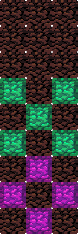
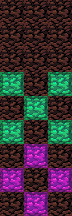
Add files via upload

diff --git a/animation.js b/animation.js
@@ -41,7 +41,7 @@ const buttonTog = (e) => {
 // todo : CLOTHING CHANGER
 // todo : ================
 
-let clothingDefault = 0, clothingTypes = 14, clothingColumns = 7; //default clothing variables.
+let clothingCurrent = 0, clothingTypes = 14, clothingColumns = 7; //default clothing variables.
 
 document.addEventListener('DOMContentLoaded', () => { //this just sets the boxes back to default settings
     const clothing = $('#clothing'), clothingDebug = $('#clothingDebug');
@@ -59,12 +59,13 @@ document.addEventListener('DOMContentLoaded', () => { //this just sets the boxes
 
             divS.children[i].onclick = function () {   // attach event listener individually
                 $all('#clothing e').forEach(id => {id.classList.remove("inv")}); //removes all buttons from being enabled on mouse press
+                clothingCurrent = cur
                 buttonTog(this); verticalUpdate(cur);
                 clothingDebug.textContent = cur + 1;
             }}} //presses the button that was just pressed.
 
-    $("#clothing"+clothingDefault).classList.add('inv') //enables the button that is the default clothing option
-    clothingDebug.textContent = clothingDefault + 1;
+    $("#clothing"+clothingCurrent).classList.add('inv') //enables the button that is the default clothing option
+    clothingDebug.textContent = clothingCurrent + 1;
 }, false);
 
 // todo : ==================
@@ -85,44 +86,73 @@ const frameTypeToggle = () => { //this is to push the current frame times
         amplifiedMulti = amplifiedBool ? 1 : 0;
         animationUpdate()};
 
+// todo : ==================
+// todo : CHARACTER SETTINGS
+// todo : ==================
+
+const dir = "characters/" //directory where all the character files are saved.
 const characterFrames = [
-        //Name          WID/HIG/ROW/COL
-    [   ["Cadence",     24, 24, 14, 16],
-        ["Melody",      24, 24, 14, 16],
-        ["Aria",        24, 24, 14, 16],
-        ["Dorian",      32, 32, 1 , 9 ],
-        ["Eli",         32, 28, 14, 16],
-        ["Monk",        24, 24, 14, 16],
-        ["Dove",        24, 24, 14, 16],
-        ["Coda",        33, 30, 14, 16],
-        ["Bolt",        24, 24, 14, 16],
-    ],[ ["Nocturna",    25, 27, 15, 15],
-        ["Diamond",     24, 24, 14, 16],
-        ["Mary",        24, 24, 14, 16],
-        ["Tempo",       24, 24, 14, 16]
-    ],[ ["Suzu",        25, 28, 14, 16],
-        ["Chaunter",    27, 26, 14, 16],
-        ["Klarinetta",  26, 30, 1 , 32]]]
+        //Name          WID/HIG/ROW/COL/URL
+    [   ["Base Game"],
+        ["Cadence P1",  24, 24, 14, 16, "player1"],
+        ["Melody",      24, 24, 14, 16, "char1"],
+        ["Aria",        24, 24, 14, 16, "char2"],
+        ["Dorian",      33, 32, 1 , 16, "char3"],
+        ["Eli",         32, 28, 14, 16, "char4"],
+        ["Monk",        24, 24, 14, 16, "char5"],
+        ["Dove",        24, 24, 14, 16, "char6"],
+        ["Coda",        33, 30, 14, 16, "char7"],
+        ["Bolt",        24, 24, 14, 16, "char8"],
+        ["Bard",        24, 24, 14, 16, "char9"]
+    ],[ ["Amplified"],
+        ["Nocturna",    25, 27, 15, 16, "char10"],
+        ["Diamond",     24, 24, 14, 16, "char11"],
+        ["Mary",        24, 24, 14, 16, "char12"],
+        ["Tempo",       24, 24, 14, 16, "char13"]
+    ],[ ["Synchrony"],
+        ["Suzu",        25, 28, 14, 16, "Suzu"],
+        ["Chaunter",    27, 26, 14, 16, "Chaunter"],
+        ["Klarinetta",  26, 30, 1 , 32, "Klarinetta"]]]
 let currentCharacter = "Nocturna"; //default character to select on load.
 
+// todo : CHARACTER LOADING
+
 document.addEventListener('DOMContentLoaded', () => { //function mounting on page load
-    for (let e = 0; e < characterFrames.length; e++) {
-        for(let i = 0; i < characterFrames[e].length; i++) {
+    const parent = $('#characterSelect')
+    for (let e = 0; e < characterFrames.length; e++) { //loops through DLC array types
+
+        parent.appendChild(createButton("options"))
+        let child = parent.getElementsByTagName('options')[e]
+
+        for(let i = 0; i < (characterFrames[e].length) - 1; i++) {
             //this gets the placement of the character in the default array if a name is typed.
             currentCharacter = currentCharacter.indexOf(characterFrames[e][i][0]) != -1 ? [e,i] : currentCharacter
 
-            $('#characterSelect' + (e + 1)).appendChild(createButton('e',characterFrames[e][i][0])).onclick = function () {
-                currentCharacter = [e,i]; animationFrameSize()
+            child.appendChild(createButton('e',characterFrames[e][i + 1][0])).onclick = function () {
+                currentCharacter = [e,i + 1]; animationFrameSize()
                 $all('container.tb3 options e').forEach(id => {id.classList.remove("inv")})
                 buttonTog(this)}}}
 
-    $('#characterSelect' + (currentCharacter[0]+1)).children[currentCharacter[1]].classList.add("inv")})
+    animationFrameSize()
+    parent.getElementsByTagName('options')[currentCharacter[0]].children[currentCharacter[1] - 1].classList.add("inv")})
 
 const animationFrameSize = () =>  {
-        frameWidth = characterFrames[currentCharacter[0]][currentCharacter[1]][1]
-        frameHeight = characterFrames[currentCharacter[0]][currentCharacter[1]][2]
-        $("#characterDebug").textContent = currentCharacter[0]+""+currentCharacter[1]+":"+
-                           characterFrames[currentCharacter[0]][currentCharacter[1]][0]}
+    let char = characterFrames[currentCharacter[0]]
+    frameWidth = char[currentCharacter[1]][1]
+    frameHeight = char[currentCharacter[1]][2]
+    $("#characterDebug").textContent =
+        currentCharacter[0]+""+currentCharacter[1]+":"+ char[currentCharacter[1]][0]
+
+    let src = "/" + dir + char[currentCharacter[1]][5]
+    $('#head').src = src + (currentCharacter[0] !== 2 ? "_heads.png" : "_head.png")
+    $('#body').src = src + (currentCharacter[0] !== 2 ? "_armor_body.png" : "_body.png")
+
+    $doc.style.setProperty('--imageW',frameWidth+"px")
+    $doc.style.setProperty('--imageH',frameHeight+"px")
+    $doc.style.setProperty('--rows',char[currentCharacter[1]][3])
+    $doc.style.setProperty('--columns',char[currentCharacter[1]][4])
+
+    $('#body').style.marginTop = -((frameHeight * clothingCurrent) * scaleRes) + "px"}
 
 // todo : ==================
 // todo : ANIMATION Rendering
@@ -181,12 +211,12 @@ const songList = [
     ["1-1 // Disco Descent"], //115
     ["BOSS // Deep Blues", "BOSS // King Conga", "BOSS // Golden Lute", "TRAINING // Watch Your Step"], //120
     ["BOSS // Coral Riff"], //125
-    ["LOBBY // Rhythmortis","1-2 // Crypteque","2-1 // Fungal Funk","4-1 // Styx and Stones"], //130
+    ["LOBBY // Rhythmortis","1-2 // Crypteque","2-1 // Fungal Funk","4-1 // Styx and Stones", "5-1 // Voltzwaltz"], //130
     ["3-1 // Stone Cold (cold)"," 3-1 // Igneous Rock (hot)"], //135
-    ["1-3 // Mausoleum Mash","2-2 // Grave Throbbing","BOSS // Necrodancer Phase 1","BOSS // Dead Ringer"], //140
+    ["1-3 // Mausoleum Mash","2-2 // Grave Throbbing","BOSS // Necrodancer Phase 1","BOSS // Dead Ringer","5-2 // Power Cords"], //140
     ["3-2 // Dance of the Decorous (cold)","3-2 March of the Profane (hot)","4-2 // Heart of the Crypt"], //145
     ["2-3 // Portabellohead"], //150
-    ["3-3 // A Cold sweat (cold)","3-3 // A Hot Mess (hot)"], //155
+    ["3-3 // A Cold sweat (cold)","3-3 // A Hot Mess (hot)","5-3 // Six Feet Thunder"], //155
     ["4-3 // The Wight To Remain","BOSS // Necrodancer Phase 2"], //160
     ["N/a"], //165
     ["N/a"], //170
@@ -216,15 +246,15 @@ const songList = [
 
 let danceTog = false, floorBool = false;
 
-    floorTog = () => {
+const floorTog = () => {
         floorBool = !floorBool;
         $('#DanceDebug').textContent = (danceTog ? (floorBool ? 2 : 1) : 0);
-        $("#crop").style.backgroundPositionY =
-            -((danceTog ? (floorBool ? 2 : 1) : 0) * (scaleRes * (frameHeight * 2))) + 'px'},
+        $("#floor").style.top =
+            -((danceTog ? (floorBool ? 2 : 1) : 0) * 72 * 10) - 30 +'px'},
 
     floorTileSets = [
-    [["Zone1"], ["zone2"], ["zone3_1","zone3_2"]],
-    [["zone4"], ["Zone5"], ["boss_1","boss_2"]]];
+        [["Zone1"], ["zone2"], ["zone3_1","zone3_2"]],
+        [["zone4"], ["Zone5"], ["boss_1","boss_2"]]];
 
 document.addEventListener('DOMContentLoaded', () => { //this just sets the boxes back to default settings
 
@@ -240,11 +270,11 @@ document.addEventListener('DOMContentLoaded', () => { //this just sets the boxes
             backgroundUpdate(buttonElem,e,i); //assigns background image for the button
 
             $('#backgrounds').children[e].appendChild(buttonElem).onclick = function () {   // attach event listener individually
-                if (floorTileSets[e][i].length > 1 && this.style.backgroundImage === $('#crop').style.backgroundImage){
+                if (floorTileSets[e][i].length > 1 && this.style.backgroundImage === $('#floor').style.backgroundImage){
                     floorTileSets[e][i].unshift(floorTileSets[e][i].pop()) //rotates the array clockwise.
                     backgroundUpdate(this,e,i)}
 
-                $('#crop').style.backgroundImage = this.style.backgroundImage; //updates the render image.
+                $('#floor').style.backgroundImage = this.style.backgroundImage; //updates the render image.
                 this.children[0].textContent = $('#FloorDebug').textContent = floorTileSets[e][i][[0]]; //updates the text on the image when clicked on
 
                 $all('#backgrounds e').forEach(id => {id.classList.remove("inv")}); //removes all buttons from being enabled on mouse press
@@ -253,7 +283,7 @@ document.addEventListener('DOMContentLoaded', () => { //this just sets the boxes
     // ON LAUNCH DEBUG PUSH
     const d = 3; //Default Floor Type
     let c=d-1,v=c>2?1:0,h=c>2?c-(floorTileSets[0].length*(floorTileSets.length*1)):c //figures out which array to use for said floor
-    backgroundUpdate($('#crop'),v,h)
+    backgroundUpdate($('#floor'),v,h)
     $('#backgrounds')?.children[v]?.children[h]?.classList.add("inv")
     $('#FloorDebug').textContent = floorTileSets[v][h][[0]]
     $('#DanceDebug').textContent = (danceTog ? (floorBool ? 2 : 1) : 0);

diff --git a/styling.css b/styling.css
@@ -3,15 +3,15 @@
 :root{
     --scaler : 14; --size: 24;
     --frameDef: 1;
-    --imageW: 25px; --imageH: 27px; --coloumns:16; --rows:15;
+    --imageW: 24px; --imageH: 24px; --columns:16; --rows:15;
 
 /* TODO: WINDOW SIZE SETTINGS */
 
-    --window1Height: 645px; --window2Height: 645px; --window3Height: 465px;
-    --window1Width: 336px; --window2Width: 282px; --window3Width: 218px}
+    --window1Height: 660px; --window2Height: 660px; --window3Height: 465px;
+    --window1Width: 450px; --window2Width: 282px; --window3Width: 218px}
 
 #head, #body{
-    position:absolute; width:calc((var(--imageW) * var(--coloumns)) * var(--scaler))}
+    position:absolute; width:calc((var(--imageW) * var(--columns)) * var(--scaler))}
 #body{
     height:calc((var(--imageH) * var(--rows)) * var(--scaler))}
 #weapon, #charm{
@@ -19,10 +19,13 @@
     top:0; left:0; z-index:1000;
     position:absolute; width:calc(25% * var(--scaler))}
 #charm {top:calc(1px * var(--scaler))}
-#HeadContainer {
-    height: calc(16px * var(--scaler));
-    float: left; width: 100%;
-    position:absolute; overflow:hidden;}
+
+#headContainer, #bodyContainer {
+    top: calc((var(--window1Width) - (var(--imageH) * 14)) - 20px);
+    left: calc(((var(--window1Width) / 2)) - ((var(--imageW) * var(--scaler)) / 2));
+    height: calc(var(--imageH) * var(--scaler));
+    width: calc(var(--imageW) * var(--scaler));
+    float: left; position:absolute; overflow:hidden}
 
 body {
     background-color: black; color:white;
@@ -31,22 +34,21 @@ body {
 
 /* TODO: RENDER CSS & SCALING */
 
-render {
-    position:absolute!important; overflow: hidden;
-    width: calc(var(--window1Width) + (var(--imageW) * 2));
-    height: calc(var(--window1Width) - (var(--imageH) * (12 - var(--scaler))));
-    image-rendering: -moz-crisp-edges; image-rendering: pixelated}
+render {position:absolute!important; overflow: hidden}
 
 #crop { position: relative; overflow: hidden;
     width: var(--window1Width) ;
-    height: calc(var(--window1Width) * 1.515);
     /* the + 1 is just for floor space at the bottom of the image. */
-    border: 2px solid rgba(255,255,255,0.5); background-size: 200%;
-    background-position: calc(-12px * var(--scaler)) -70px}
+    border: 2px solid rgba(255,255,255,0.5)}
 #crop, render{
-    image-rendering: -moz-crisp-edges; image-rendering: pixelated}
+    image-rendering: -moz-crisp-edges; image-rendering: pixelated;
+    width: var(--window1Width); height: 527px}
 
-render {aspect-ratio: 1 / 1; top: calc(4px * var(--scaler))}
+#floor{
+    image-rendering: -moz-crisp-edges; image-rendering: pixelated;
+    width: calc(72px * 10); height: calc(216px * 10);
+    left: calc(-72px / 0.53); /*TODO: the multiplier here is dogshit */
+    position:absolute; background-size: 100%;}
 
 /* TODO: TABLE SIZE SETTINGS */
 
@@ -60,11 +62,11 @@ container, table {position:absolute}
 .tb1 .top img {width:var(--window1Width)} /* container width */
 .tb1 .mid img {height:var(--window1Height)}
 
-.tb2 {left: calc(var(--window1Width) + (var(--imageW) * 2) + 10px)} /* set this the same as the thing above + 50*/
+.tb2 {left: calc(var(--window1Width) + 60px)} /* set this the same as the thing above + 50*/
 .tb2 .top img, .tb2 {width:var(--window2Width)}
 .tb2 .mid img {height:var(--window2Height)}
 
-.tb3 {left: calc(var(--window1Width) + var(--window2Width) + (var(--imageW) * 4) + 10px)} /* set this the same as the thing above + 50*/
+.tb3 {left: calc(var(--window1Width) + var(--window2Width) + 110px)} /* set this the same as the thing above + 50*/
 .tb3 .top img, .tb3 {width:var(--window3Width)}
 .tb3 .mid img {height:var(--window3Height)}
 
@@ -89,7 +91,7 @@ e t {display: flex;justify-content: center; z-index:10;position: relative}
 #clothing e{white-space: nowrap; width: 8px}
 #clothing tr e { width: 35px; height:35px}
 
-container {padding:var(--imageW); width:var(--window1Width)}
+container {padding:24px; width:var(--window1Width)}
 cont th {text-align: left;}
 th, tr img {padding: 0; margin: -4px}
 
@@ -102,7 +104,7 @@ controller div:first-of-type, #crop {margin: 13px 0 13px 0}
     background: #000; cursor: pointer; border: 2px solid #fff}
 
 #trackContainer { padding:10px; margin:0;
-    width:calc(var(--window2Width) - (12px * 2)); height: 72px;
+    width:calc(var(--window2Width) - (12px * 2)); height: 90px;
     color: #fff; border: solid 2px #fff; background-color: #000}
 
 :root { --backgroundCol : 3; --backgroundColPad : 5px}

diff --git a/main.html b/main.html
@@ -67,9 +67,9 @@
             <t>Render View</t>
             <div id="crop">
                 <render>
-                    <img id="body" src="/Test_Sprites/body.png">
-                    <div id="HeadContainer">
-                        <img id="head" src="/Test_Sprites/heads.png"></div>
+                    <div id="floor"></div>
+                    <div id="bodyContainer"><img id="body"></div>
+                    <div id="headContainer"><img id="head"></div>
                     <img class="invisible" id="hat" src="/Test_Sprites/hat.png">
                     <img class="invisible" id="weapon" src="/Test_Sprites/weapon.png">
                     <img class="invisible" id="boots" src="/Test_Sprites/boots.png">
@@ -83,7 +83,7 @@
                     <div>
                         <e onclick="danceTog = !danceTog; floorTog(); buttonTog(this); ">Dance Floor</e>
                         <e onclick="amplifiedToggle(); buttonTog(this)">AMPLIFIED</e>
-                        <e>"Bat Mode"</e>
+                        <e onclick="verticalUpdate(14); characterToggle('head',this)">"Bat Mode"</e>
                     </div><div>
                         <e class="clickable" onclick="playTog = false; elapsed--; animationPush()"> Prev </e>
                         <e onclick="playTog = !playTog; buttonTog(this);">Play</e>
@@ -139,14 +139,7 @@
 
         <container class="tb3">
             Characters
-            <cont>
-                Base Game<br>
-                <options id="characterSelect1"></options>
-                Amplified<br>
-                <options id="characterSelect2"></options>
-                Synchrony<br>
-                <options id="characterSelect3"></options>
-            </cont>
+            <cont id="characterSelect"></cont>
         </container>
 
         <div class="footer">
